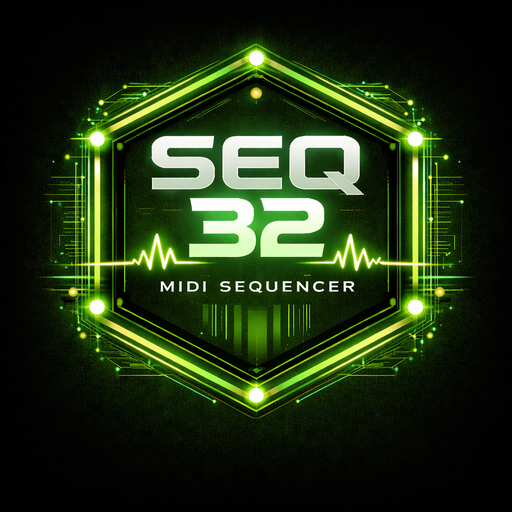
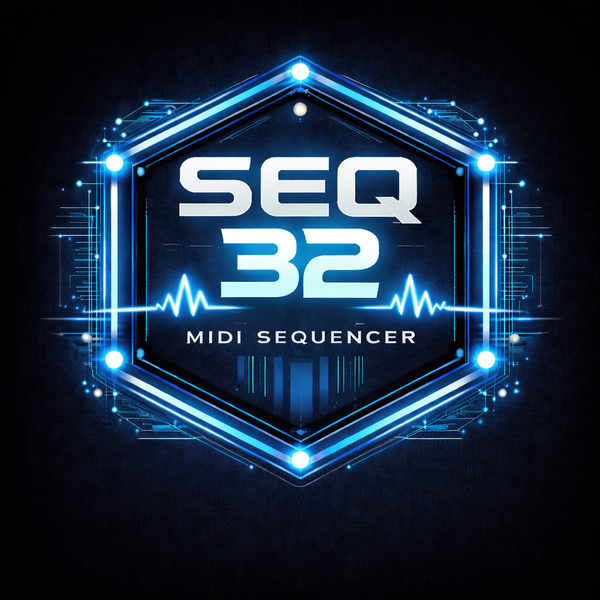
Update seq32 image and size.

diff --git a/doc/help/help.html b/doc/help/help.html
@@ -23,7 +23,7 @@
       <td>
         <p>
           <a href="https://github.com/Stazed/seq32">
-            <img style="border: 2px solid; width: 400px; height: 435px;"
+            <img style="border: 2px solid; width: 600px; height: 600px;"
                  src="images/seq32.png"
                  alt="SEQ32 Logo" hspace="10">
           </a>
